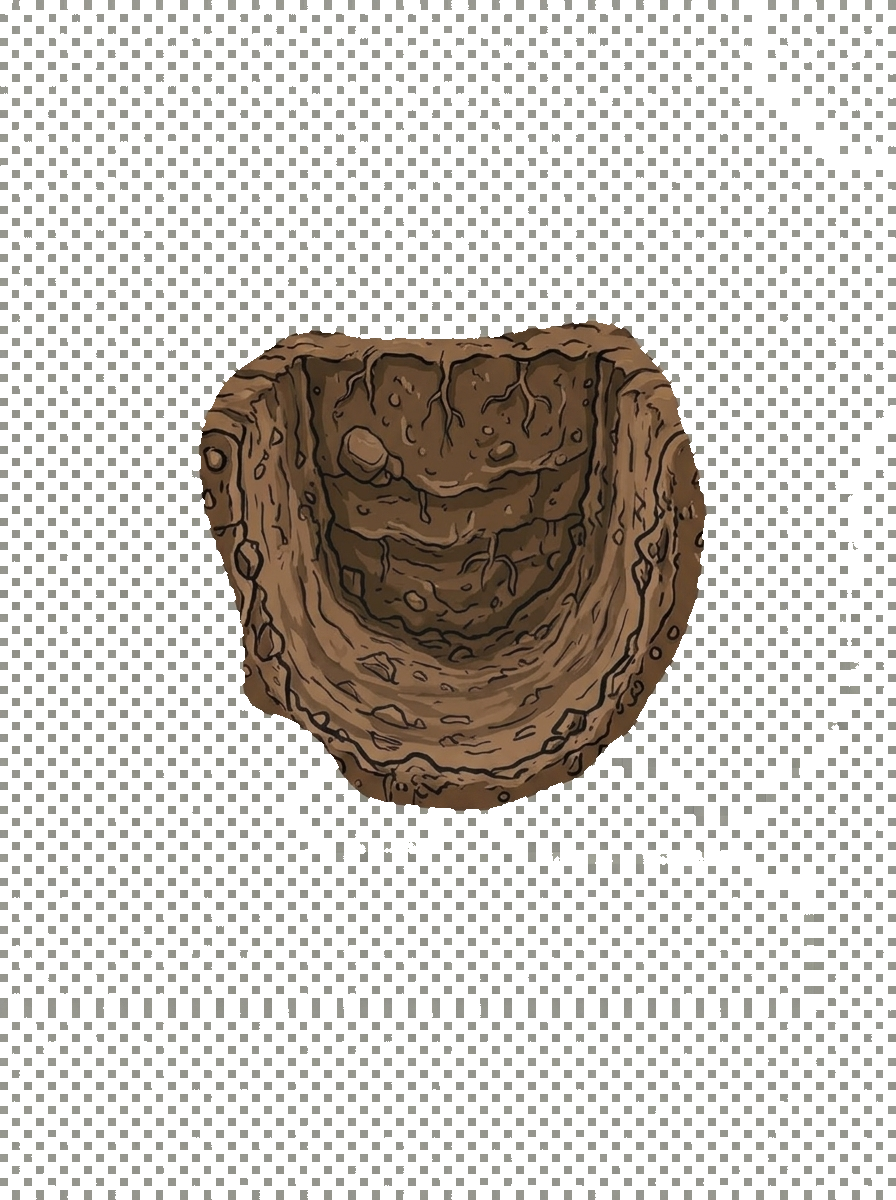
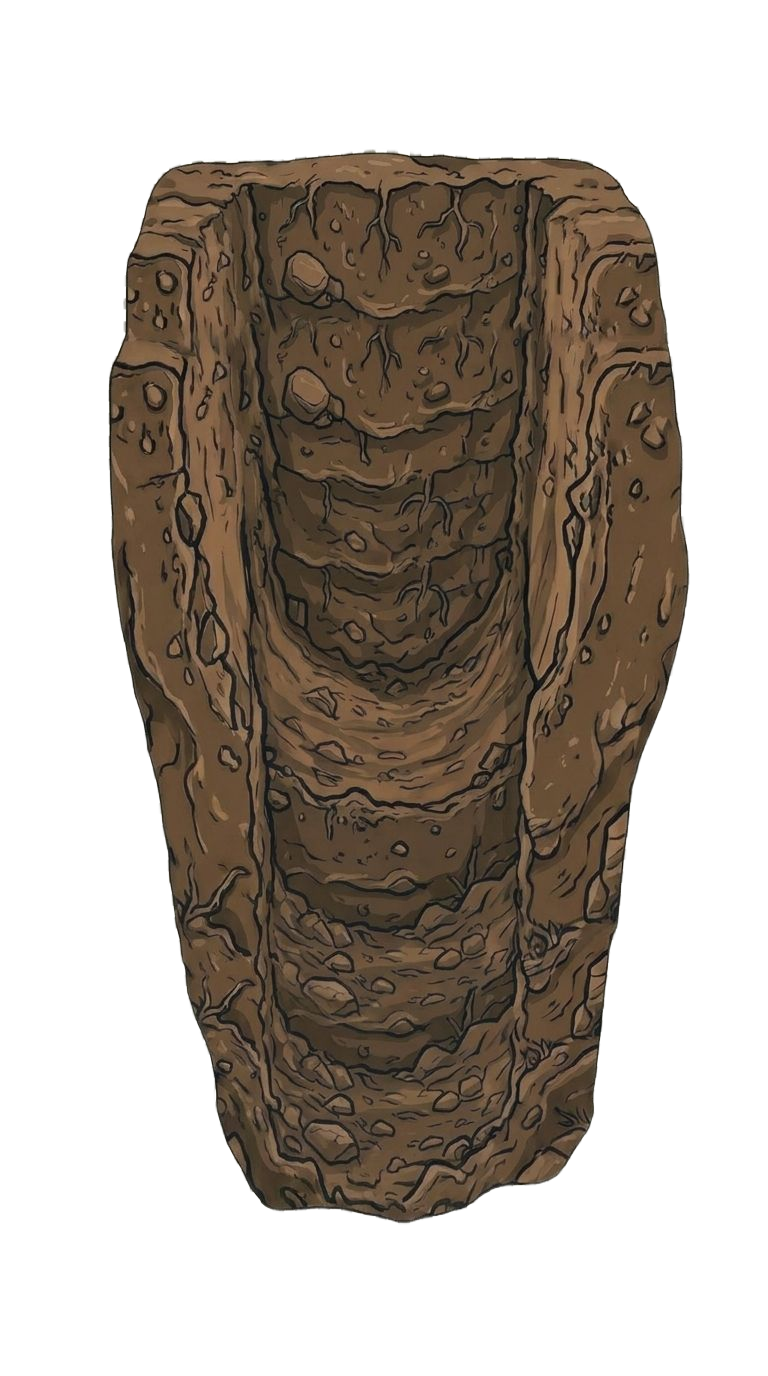
chore: hole 이미지 교체 (jpeg → 새 png) + 오버슈트 보정값 정상화
- public/assets/hole.png: 사장님 새로 받은 이미지로 교체
- public/assets/hole.jpeg: 삭제 (미사용)
- BootScene: hole 로더 jpeg → png
- HOLE_SURFACE_OVERSHOOT 200 → 40 (새 이미지는 padding 거의 없어서 보정 최소화)

diff --git a/src/scenes/GameScene.js b/src/scenes/GameScene.js
@@ -84,9 +84,9 @@ const HOLE_WIDTH_RATIO       = 0.85;     // 화면 폭 대비 구덩이 너비 (
 const HOLE_MIN_HEIGHT        = 80;       // 최소 높이
 const HOLE_MAX_HEIGHT        = 120;      // (현재 미사용)
 const HOLE_Y_OFFSET          = 35;       // 캐릭터 발 아래로 구덩이 바닥이 떨어지는 오프셋
-const HOLE_SURFACE_OVERSHOOT = 200;      // 지표면 위로 더 끌어올리는 보정값 (120 → 200: 갭 더 확실히 메움)
-                                         //   → hole.jpeg 상단 투명 영역(이미지 자체 padding) 보정
-                                         //   → 여전히 갭 보이면 250, 300으로 키우세요
+const HOLE_SURFACE_OVERSHOOT = 40;       // 지표면 위로 살짝 더 끌어올리는 안전 마진
+                                         //   → 새 hole.png는 padding 거의 없으므로 작게 (40)
+                                         //   → 갭 보이면 80, 120으로 조정
 
 // ━━ 흙더미 시스템 (mound_right.png 이미지) ━━
 //   - 오른쪽용 1장만 로드, 왼쪽은 flipX로 좌우 반전 재활용

diff --git a/src/scenes/BootScene.js b/src/scenes/BootScene.js
@@ -45,7 +45,7 @@ export default class BootScene extends Phaser.Scene {
         this.load.image('mound_right', 'assets/mound_right.png');
 
         // ━━━ 구덩이 이미지 (U자형 단면 - 캐릭터 발 아래 배치) ━━━
-        this.load.image('hole', 'assets/hole.jpeg');
+        this.load.image('hole', 'assets/hole.png');
 
         // ━━━ 레이어 배경 이미지 (한국 레이어 6종, 720×2580 jpg) ━━━
         // 키 규칙: ${layer.id}_bg → 'layer_001_bg' ... 'layer_006_bg'
